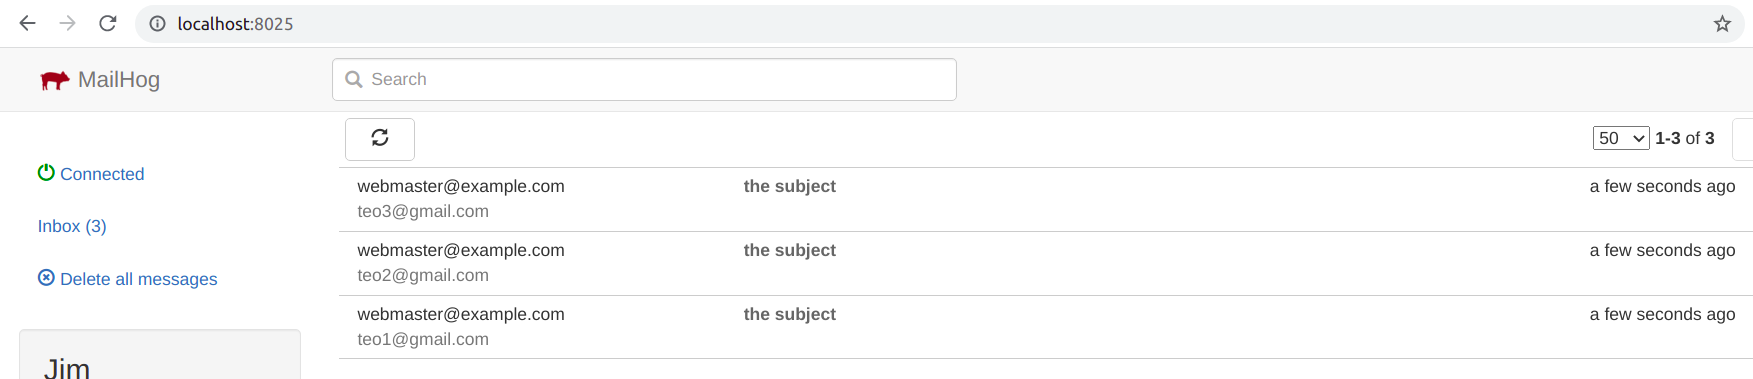
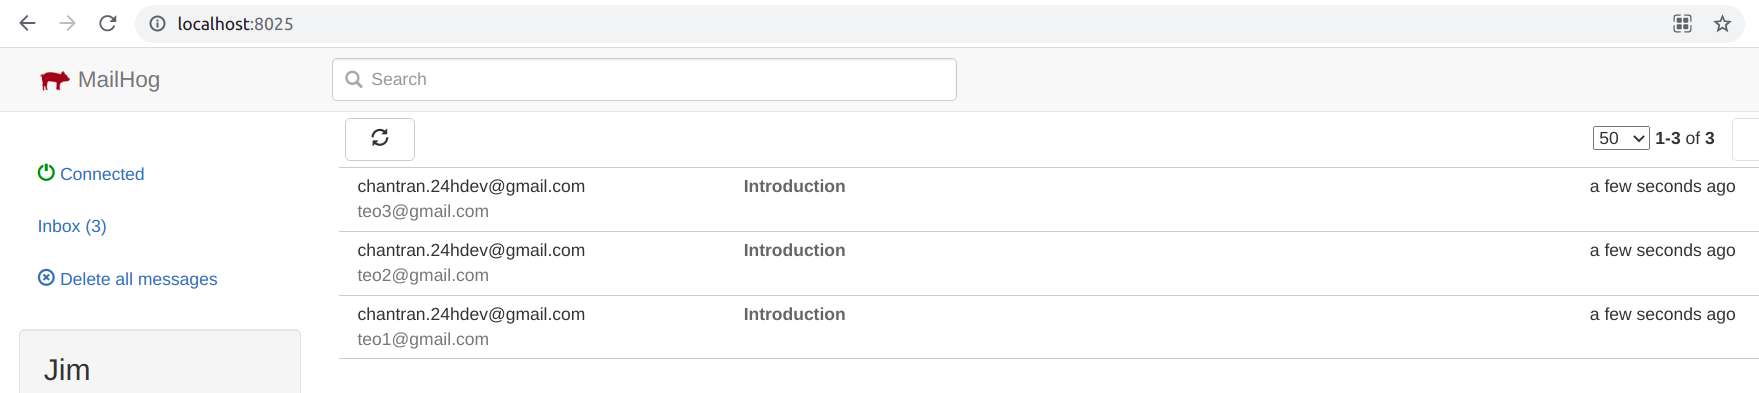
change content mail and done

diff --git a/src/mail.php b/src/mail.php
@@ -1,10 +1,13 @@
 <?php
 
 function sendMail($to) {
-    $subject = 'the subject';
-    $message = 'hello';
-    $headers = 'From: webmaster@example.com' . "\r\n" .
-    'Reply-To: webmaster@example.com' . "\r\n" .
+    $subject = 'Introduction';
+
+    $message = "Hello my name is Kim Chan\r\nI come from Hoi An old town";
+    $message = wordwrap($message, 70, "\r\n");
+
+    $headers = 'From: chantran.24hdev@gmail.com' . "\r\n" .
+    'Reply-To: chantran.24hdev@gmail.com' . "\r\n" .
     'X-Mailer: PHP/' . phpversion();
 
     mail($to, $subject, $message, $headers);

diff --git a/README.md b/README.md
@@ -67,6 +67,8 @@ Result
 
 ![5](img/5.png)
 
-MailHog
+MailHog: http://localhost:8025
 
 ![6](img/6.png)
+
+![7](img/7.png)
